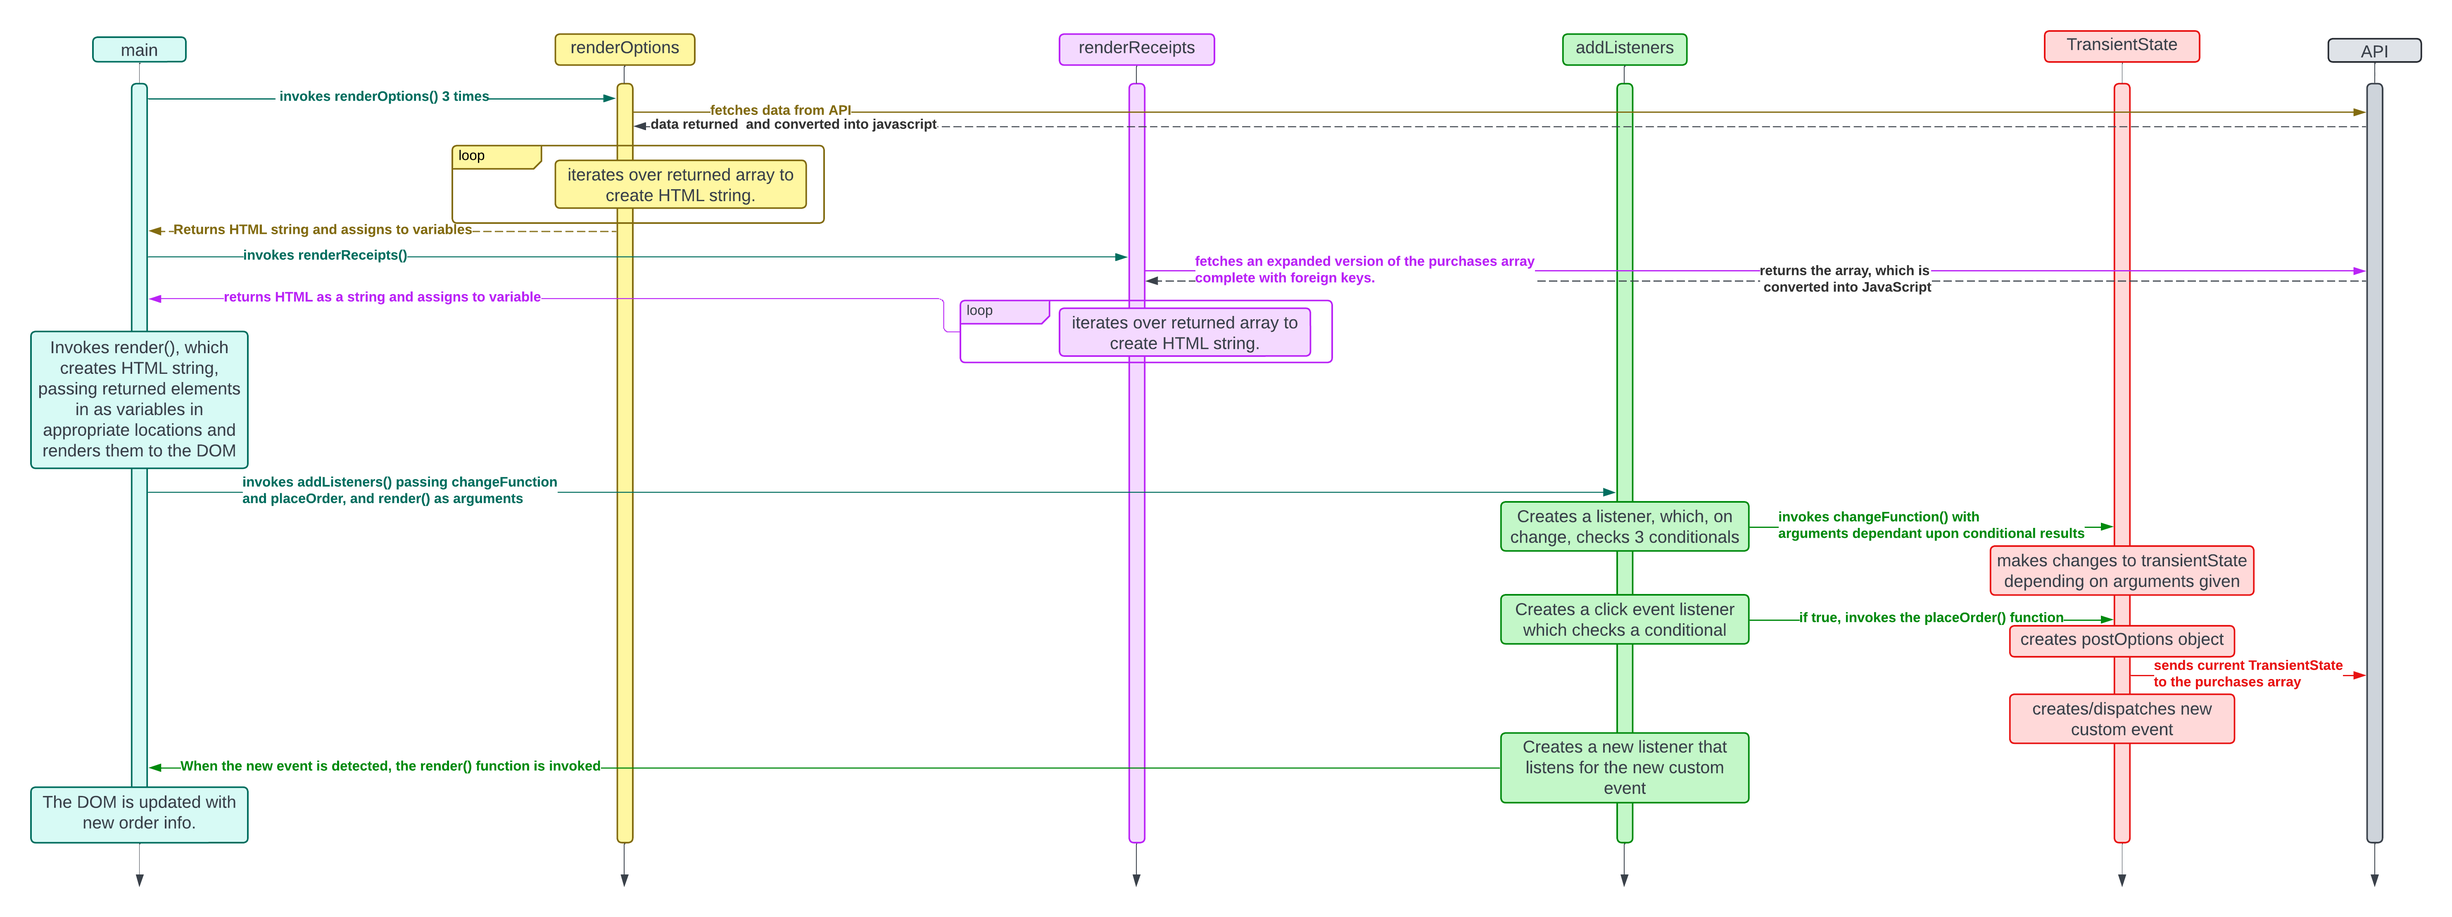
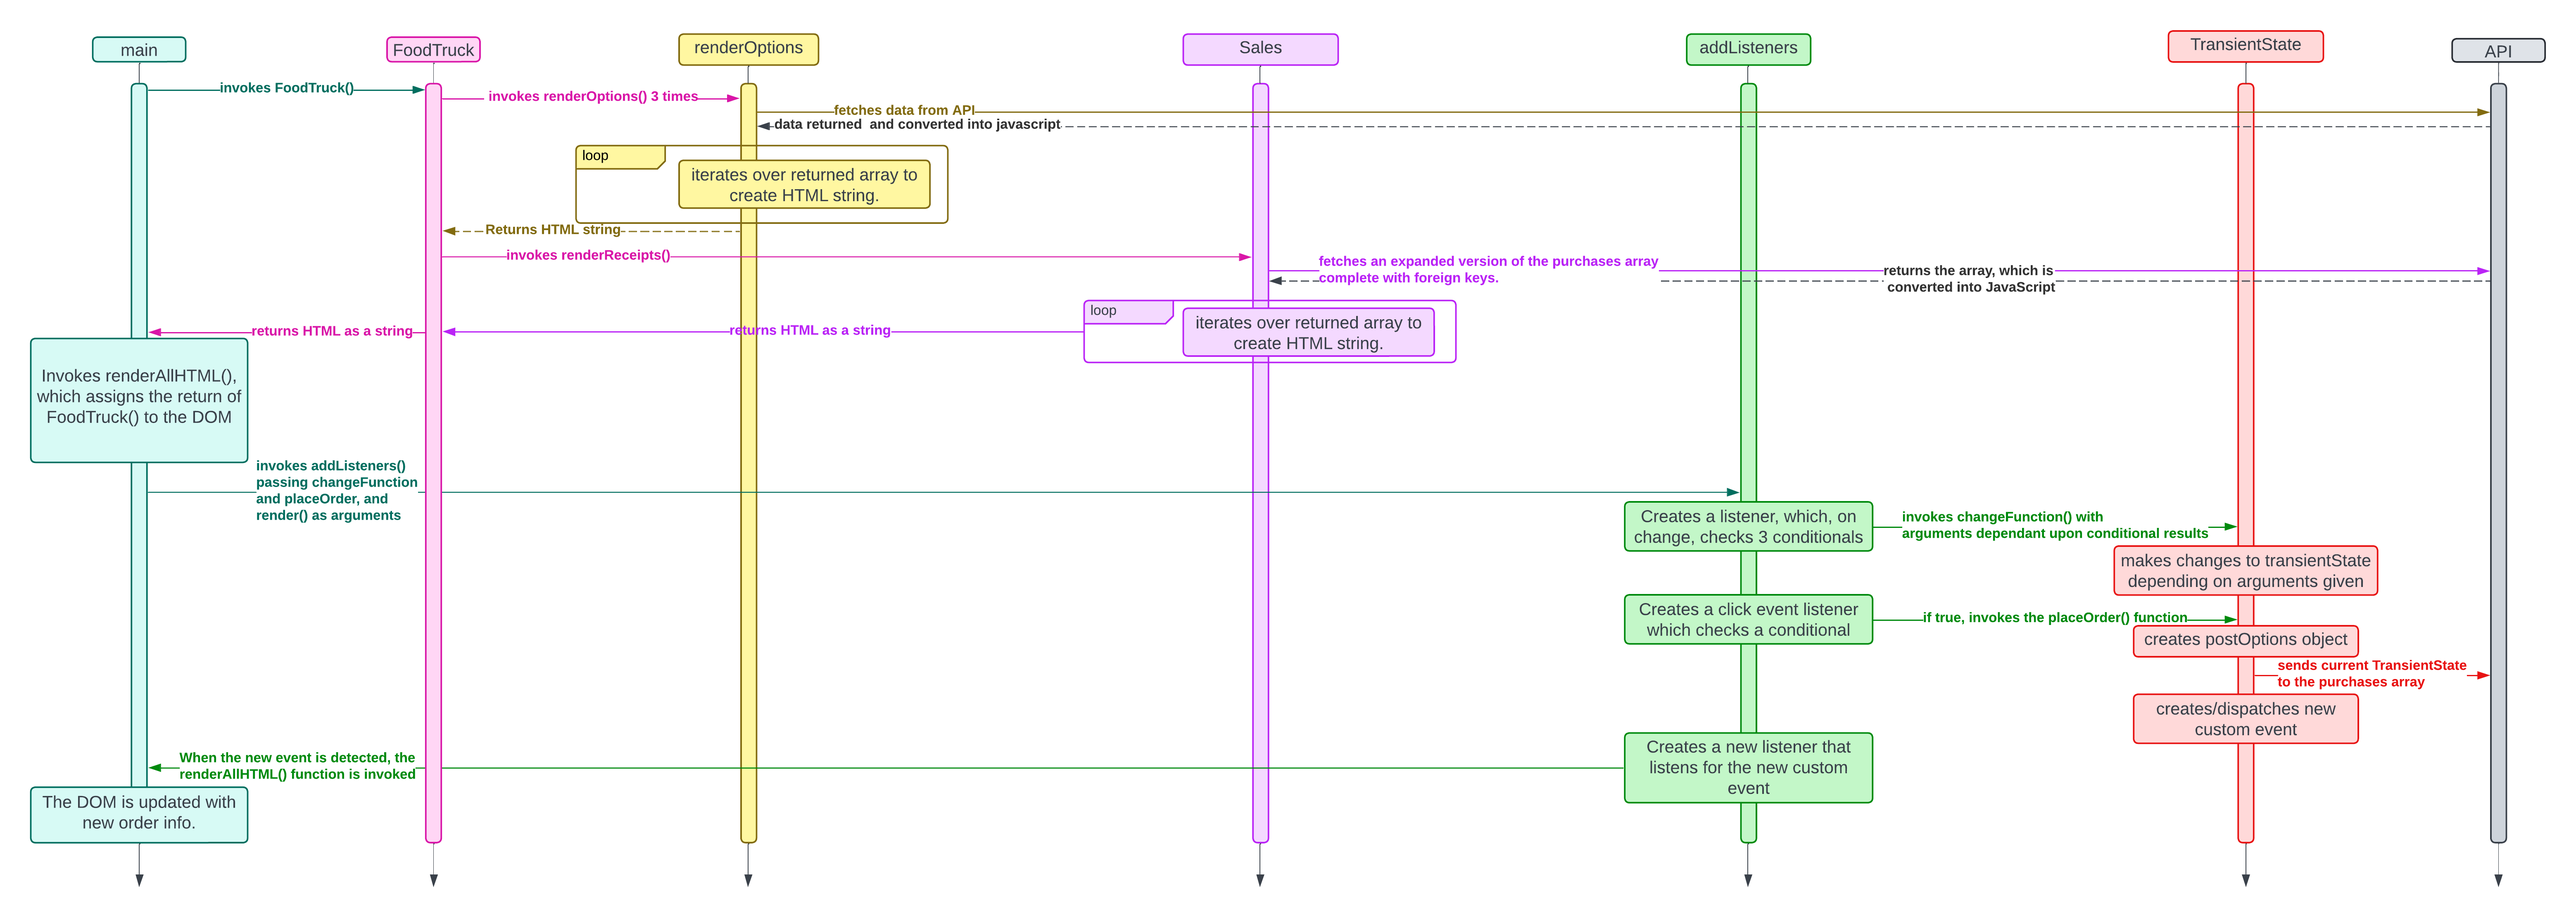
Finished Assessment

diff --git a/scripts/FoodTruck.js b/scripts/FoodTruck.js
@@ -1,13 +1,32 @@
+import { renderOptions } from "./renderOptions.js"
 import { Sales } from "./Sales.js"
 
-export const FoodTruck = () => {
-    const salesHTML = Sales()
+export const FoodTruck = async () => {
+
 
     return `
         <header class="header">
             <img src="./images/hummus.png" class="logo" />
             <h1 class="title">Laura Kathryn's House of Hummus</h1>
         </header>
+        <article class='menu'>
+
+        <section class='menu-entrees'>
+        <h2>Entrees</h2>
+        ${await renderOptions('entrees')}
+        </section>
+
+        <section class='menu-vegetables'>
+        <h2>Vegetables</h2>
+        ${await renderOptions('vegetables')}
+        </section>
+
+        <section class='menu-sides'>
+        <h2>Sides</h2>
+        ${await renderOptions('sides')}
+        </section>
+
+        </article>
 
         <article>
             <button id="purchase">Purchase Combo</button>
@@ -15,7 +34,7 @@ export const FoodTruck = () => {
 
         <article class="customerOrders">
             <h2>Monthly Sales</h2>
-            ${salesHTML}
+            ${await Sales()}
         </article>
 
     `

diff --git a/scripts/renderOptions.js b/scripts/renderOptions.js
@@ -1,0 +1,28 @@
+export const renderOptions = async (type) => {
+    const response = await fetch(`http://localhost:8088/${type}`)
+    const responseArray = await response.json()
+
+    let html = responseArray.map(item => {
+        if (item === responseArray[0]) {
+            return `
+            <div>
+                <label for='${type}${item.id}'>
+                    <input checked type='radio' name='${type}' value='${item.id}'>
+                    ${item.name} <!-- Optionally include item name if available -->
+                </label>
+            </div>
+            `
+        } else {
+            return `
+            <div>
+                <label for='${type}${item.id}'>
+                    <input type='radio' name='${type}' value='${item.id}'>
+                    ${item.name}
+                </label>
+            </div>
+            `
+        }
+    }).join('')
+
+    return html
+}

diff --git a/scripts/Sales.js b/scripts/Sales.js
@@ -1,10 +1,18 @@
 export const Sales = async () => {
-    const sales = await fetch("http://localhost:8088/orders").then(res => res.json())
+    const response = await fetch("http://localhost:8088/purchases?_expand=entree&_expand=vegetable&_expand=side")
+    const sales = await response.json()
 
-    let salesDivs = sales.map()
+    let salesDivs = sales.map(item => {
+        let price = item.entree.price + item.vegetable.price + item.side.price
+        price = price.toLocaleString("en-US", {
+            style: "currency",
+            currency: "USD"
+        })
+        
+        return `<div class='receipt'>
+            Receipt #${item.id} = ${price}
+        </div>`
+    })
 
-    salesDivs = salesDivs.join("")
-
-    return salesDivs
+    return salesDivs.join('')
 }
-

diff --git a/scripts/TransientState.js b/scripts/TransientState.js
@@ -1,0 +1,29 @@
+const defaultState = {
+        entreeId: 1,
+        vegetableId: 1,
+        sideId: 1
+}
+
+let transientState = {
+    entreeId: 1,
+    vegetableId: 1,
+    sideId: 1
+}
+
+export const changeFunction = (type, event) =>{
+    transientState[`${type}Id`] = parseInt(event.target.value)
+}
+
+export const placeOrder = async () =>{
+    const postOptions = {
+        method: "POST",
+        headers: {
+            "Content-Type": "application/json"
+        },
+        body: JSON.stringify(transientState)
+    }
+    const response = await fetch('http://localhost:8088/purchases', postOptions)
+    const orderEvent = new CustomEvent('newOrder')
+    document.dispatchEvent(orderEvent)
+    transientState = {...defaultState}
+}

diff --git a/scripts/Listeners.js b/scripts/Listeners.js
@@ -1,0 +1,22 @@
+export const addListeners = (firstFunction, secondFunction, thirdFunction) => {
+    document.addEventListener('change', (event) => {
+        const targetName = event.target.name
+        if (targetName === 'entrees') {
+            firstFunction('entree', event)
+        }
+        if (targetName === 'vegetables') {
+            firstFunction('vegetable', event)
+        }
+        if (targetName === 'sides') {
+            firstFunction('side', event)
+        }
+    })
+
+    document.addEventListener('click', (clickEvent) => {
+        if (clickEvent.target.id === 'purchase') {
+            secondFunction()
+        }
+    })
+
+    document.addEventListener('newOrder', thirdFunction)
+}

diff --git a/scripts/main.js b/scripts/main.js
@@ -1,10 +1,12 @@
 import { FoodTruck } from "./FoodTruck.js"
+import { addListeners } from "./Listeners.js"
+import { changeFunction, placeOrder } from "./TransientState.js"
 
 const mainContainer = document.querySelector("#container")
 
-const renderAllHTML = () => {
-    mainContainer.innerHTML = FoodTruck()
+const renderAllHTML = async () => {
+    mainContainer.innerHTML = await FoodTruck()
 }
 
 renderAllHTML()
-
+addListeners(changeFunction, placeOrder, renderAllHTML)

diff --git a/styles/main.css b/styles/main.css
@@ -36,6 +36,12 @@ ul {
     font-size: 1rem;
 }
 
+#purchase:hover{
+    background-color: rgb(72, 46, 150);
+    cursor: pointer;
+    font-weight: bold;
+}
+
 .header {
     display: flex;
 }

diff --git a/README.md b/README.md
@@ -56,10 +56,16 @@ sequenceDiagram
 > 🧨 Before you click the "Assessment Complete" button on the Learning Platform, add your answers below for each question and make a commit. It is your option to request a face-to-face meeting with a coach for a vocabulary review.
 
 1. Should transient state be represented in a database diagram? Why, or why not?
-   > Your answer here
+   > I don't think the transient state should be represented separate from the purchases table in my ERD. It should have all the same keys (minus the id, which is added by the json-server). It doesn't have any actual relationships with anything else in the database, so it shouldn't be represented in a diagram whose sole purpose is to show relationships between entities.
+
 2. In the **FoodTruck** module, you are **await**ing the invocataion of all of the component functions _(e.g. sales, veggie options, etc.)_. Why must you use the `await` keyword there? Explain what happens if you remove it.
-   > Your answer here
+   > The `await` keyword is there because the functions being run are asynchronous--meaning they run int he background rather than sequentially. The computer sees them as a sign to begin an operation, but doesn't wait for that operation to be completed before moving on to the next line of code. That can be a problem if subsequent lines of code depend on the outcomes of those asynchronous operations, as is the case here. In order to create an accurate html string, the **FoodTruck** module needs the result of those fetch requests. Adding the `await` keyword tells the computer that the asynchronous operation needs to be completed before it moves on to the next line of code. If it's removed, the function instead returns an empty promise, which represents the future completion of an asynchronous function. The fetch made a promise that it would be back with the requested data, but the function finished running before that promise was fulfilled. For me, this resulted in the text "[object promise]" being displayed on the webpage rather than the appropriate html. Adding the `await` keyword forces the computer to wait on the return of the promise before continuing to the next line.
+
 3. When the user is making choices by selecting radio buttons, explain how that data is retained so that the **Purchase Combo** button works correctly.
-   > Your answer here
+   >First, I have an object called `transientState`, which exists to store the changes a user makes when selecting options from the radio buttons. 
+   >I have a listener attached to the document that listens for value changes to input elements. That listener has conditionals that trigger when certain things are true; in this case, if the name of the element experiencing the change is equal to one of our three menu categories. If it is, it triggers my changeFunction() function, which makes changes to the appropriate values in the `transientState` object. E.g., if the user changes their entree selection, it updates the value attached to the 'entree' key in the `transientState` object to match the value of the radio button (whose value has also been mapped to match the appropriate entry in the entrees database).
+   >When the **Purchase Combo** button is clicked, it triggers a separate event listener and triggers an event that takes the `transientState` object whose values have been shifted to match the user selections, and posts them to the purchases array in the API. 
+
 4. You used the `map()` array method in the self assessment _(at least, you should have since it is a learning objective)_. Explain why that function is helpful as a replacement for a `for..of` loop.
-   > Your answer here
+   > If we were to write a for...of loop, we'd be using it to iterate through an array and concatenate a string using data from each object in that array. The .map() function is already built to iterate through an array and aggregate data from each object within that array. The only limitation is that it returns an array itself. However, when combined with the .join() function, it does exactly what we want with considerably simpler code. .map() is like a more specialized version of a for...of loop. 
+   >Right now, my wife is building a fence in our backyard. She could use a shovel to dig the holes for the posts. A shovel is built for digging and it would get the job done. However, there is also a tool called a post hole digger. As its name implies, it's designed to dig post holes. It's a more specific tool for a more specific task. You could get the job done with a shovel, but the post hole digger is more efficient.
